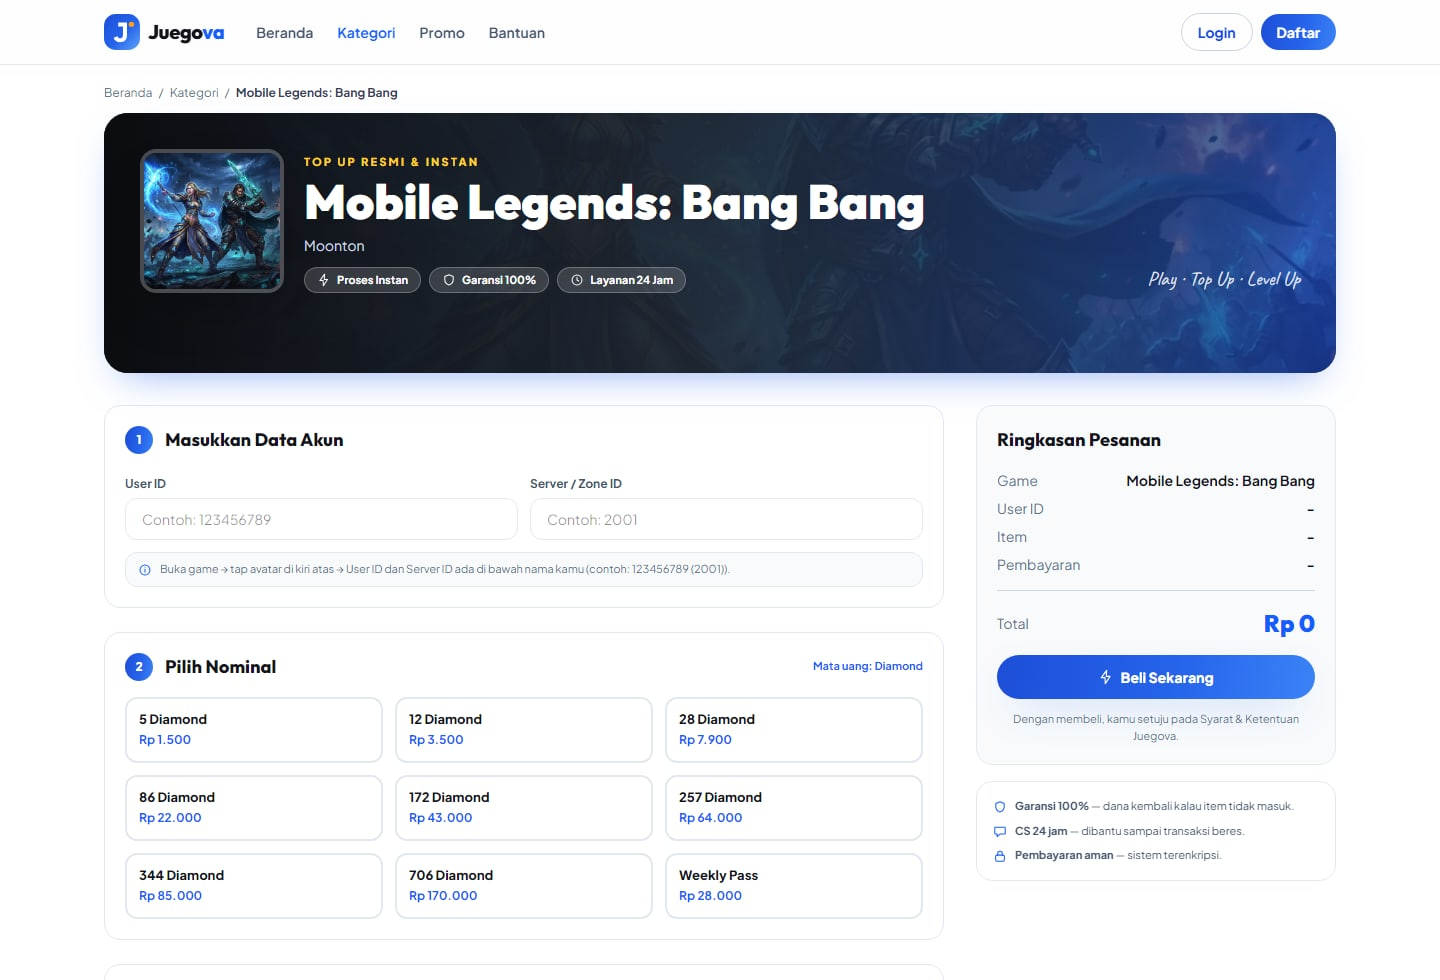
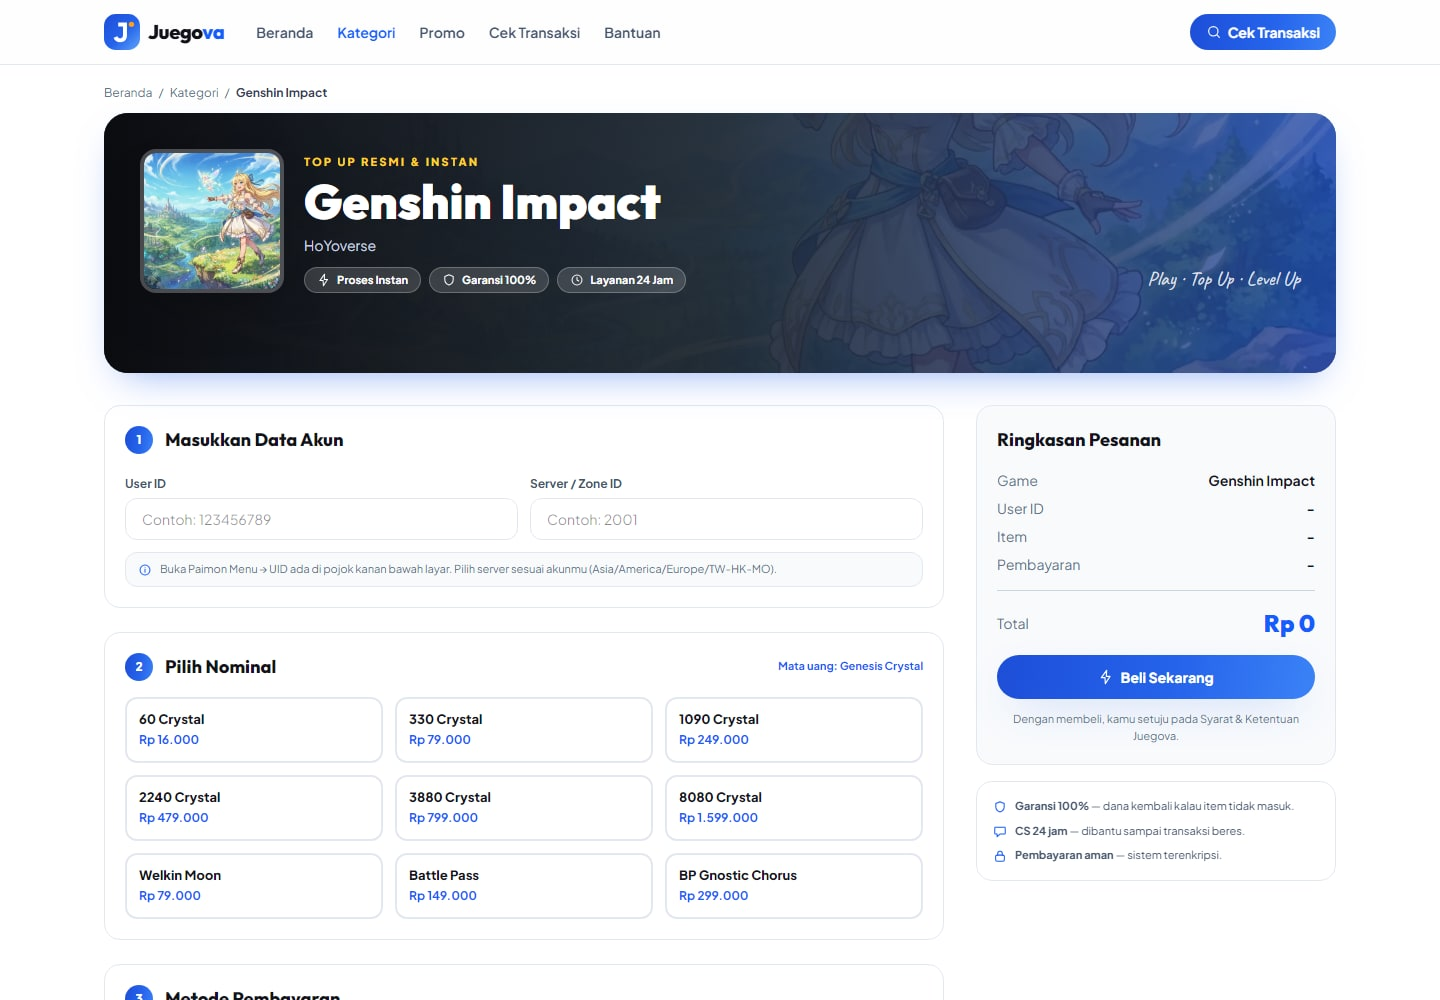
feat(catalog): show Genshin Impact, drop Honkai and Valorant
Genshin Impact was hidden even though it already had a hero banner pointing at
its own page, which was a dead link. It is now live and the banner resolves.

Catalog is seven games, all visible, in this order: Mobile Legends, Free Fire,
PUBG Mobile, Genshin Impact, Magic Chess: Go Go, Honor of Kings, Roblox.

- Activates Genshin Impact and renumbers sort order to 0..6
- Removes Honkai: Star Rail and Valorant from the catalog, seed and assets
- Points the site meta description at the seven games actually sold
- Rows were backed up to JSON before deletion, and the seed still carries the
  full price lists, so the removal is reversible

Also documents the cache trap this uncovered. Catalog reads pass through a
persistent `.next/cache`, and `generateStaticParams` runs against it at build
time, so a plain rebuild after a catalog change reuses the previous catalog:
the newly activated game 404s while the removed ones keep their prerendered
pages and sitemap entries. Clearing `.next` first is what makes the change
take effect.

Verified: seven unique game cards on the homepage with every image loading,
`/game/genshin-impact` returns 200 with nine nominals, both removed slugs return
404, and the sitemap lists seven game URLs with no trace of the removed ones.

diff --git a/data/games.ts b/data/games.ts
@@ -130,62 +130,6 @@ export const GAMES: Game[] = [
     ],
   },
   {
-    id: "honkai-star-rail",
-    name: "Honkai: Star Rail",
-    cardTitle: "Honkai: Star Rail",
-    publisher: "HoYoverse",
-    currency: "Oneiric Shard",
-    category: "rpg",
-    image: "/images/honkai-star-rail.webp",
-    imageWidth: ART_WIDTH,
-    imageHeight: ART_HEIGHT,
-    imageAlt: "Sampul game Honkai: Star Rail",
-    needsZone: true,
-    idHint: "Buka Phone Menu → UID tampil di pojok kiri bawah. Pilih server sesuai akunmu.",
-    description:
-      "Honkai: Star Rail adalah RPG turn-based petualangan antargalaksi. Top up Oneiric Shard untuk warp, Express Supply Pass, dan Nameless Honor.",
-    isActive: true,
-    items: [
-      { label: "60 Shard", price: 16000 },
-      { label: "300 Shard", price: 79000 },
-      { label: "980 Shard", price: 249000 },
-      { label: "1980 Shard", price: 479000 },
-      { label: "3280 Shard", price: 799000 },
-      { label: "6480 Shard", price: 1599000 },
-      { label: "Express Supply Pass", price: 79000 },
-      { label: "Nameless Honor", price: 149000 },
-      { label: "Honor Glory", price: 299000 },
-    ],
-  },
-  {
-    id: "valorant",
-    name: "Valorant",
-    cardTitle: "Valorant",
-    publisher: "Riot Games",
-    currency: "VP",
-    category: "shooter",
-    image: "/images/valorant.webp",
-    imageWidth: ART_WIDTH,
-    imageHeight: ART_HEIGHT,
-    imageAlt: "Sampul game Valorant",
-    needsZone: false,
-    idHint: "Masukkan Riot ID lengkap beserta tagline, contoh: Juegova#ID1.",
-    description:
-      "Valorant adalah tactical shooter 5v5 dengan agent berkemampuan unik. Top up VP untuk skin bundle, battle pass, dan agent contract.",
-    isActive: true,
-    items: [
-      { label: "125 VP", price: 15000 },
-      { label: "420 VP", price: 50000 },
-      { label: "700 VP", price: 80000 },
-      { label: "1375 VP", price: 155000 },
-      { label: "2400 VP", price: 270000 },
-      { label: "4000 VP", price: 440000 },
-      { label: "Battle Pass", price: 165000 },
-      { label: "Agent Contract", price: 145000 },
-      { label: "VP Starter", price: 30000 },
-    ],
-  },
-  {
     id: "magic-chess",
     name: "Magic Chess: Go Go",
     cardTitle: "Magic Chess",

diff --git a/data/settings.ts b/data/settings.ts
@@ -8,7 +8,7 @@ export const DEFAULT_SETTINGS: SiteSettings = {
   legalName: "Juegova.net",
   tagline: "Top Up Game, Lebih Seru Setiap Hari",
   description:
-    "Top up game favoritmu di Juegova — proses instan, aman, dan harga terbaik untuk Mobile Legends, Free Fire, PUBG Mobile, Genshin Impact, Honkai: Star Rail, dan Valorant.",
+    "Top up game favoritmu di Juegova — proses instan, aman, dan harga terbaik untuk Mobile Legends, Free Fire, PUBG Mobile, Genshin Impact, Magic Chess: Go Go, Honor of Kings, dan Roblox.",
   slogan: "#LevelUpBersamaJuegova",
   footerNote: "Dibuat untuk Gamers, oleh Gamers",
   themeColor: "#1d4ed8",

diff --git a/README.md b/README.md
@@ -220,7 +220,9 @@ Login is **off until you turn it on**. Set `ADMIN_PASSWORD` and `/admin` immedia
 
 Game pages live at `/game/[slug]` and are **statically prerendered** via `generateStaticParams`. The checkout page reads its order from Postgres and is rendered on demand; the dashboard is `force-dynamic`, because a cached admin view would show stale prices.
 
-The original site used `/game?id=xxx`. Those URLs are still live in the wild, so `middleware.ts` issues a `308` to the clean path. Redirects in `next.config` were not usable here: Next always carries the source query string into the destination, which produced `/game/valorant?id=valorant`. Middleware can strip just the `id` parameter while preserving analytics parameters such as `utm_source`.
+> **Clearing catalog data means clearing `.next`.** Catalog reads go through a persistent cache in `.next/cache`, and `generateStaticParams` runs against it at build time. Change a game's visibility, add or delete one, and a plain rebuild will happily reuse the previous catalog — the new game 404s, and the old ones keep their prerendered pages and sitemap entries. Delete `.next` before rebuilding whenever the catalog itself changes. This has bitten twice.
+
+The original site used `/game?id=xxx`. Those URLs are still live in the wild, so `middleware.ts` issues a `308` to the clean path. Redirects in `next.config` were not usable here: Next always carries the source query string into the destination, which produced `/game/roblox?id=roblox`. Middleware can strip just the `id` parameter while preserving analytics parameters such as `utm_source`.
 
 ### Verifying a migration instead of eyeballing it
 
